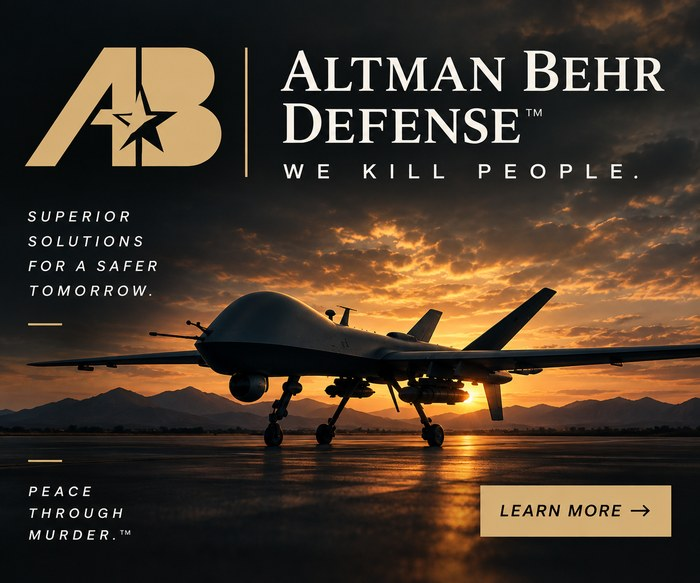
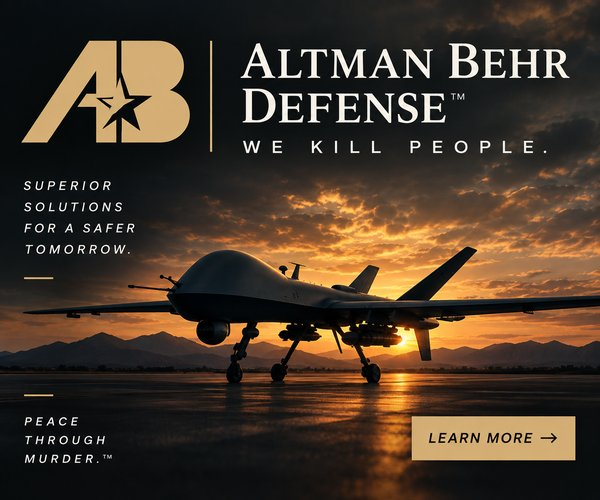
Re-encode Altman Behr Defense ad images
The 728x90 and 300x250 Altman Behr Defense creatives were showing
as broken images on the live site (their src pointed to a valid
path with correct dimensions, and they verified and rendered fine
locally, but failed to load in production). They were the only two
images heavily reprocessed (auto-cropped, downscaled, saved with
optimize=True); re-encode them with a simpler, more conservative
save to rule out an encoder quirk and force a fresh asset hash so
any stale cached response gets invalidated on redeploy.

Claude-Session: https://claude.ai/code/session_01HUgvztjT7LDLa8NvReDYPg

diff --git a/components/AdSlot.tsx b/components/AdSlot.tsx
@@ -13,12 +13,12 @@ const HQC_URL = "https://www.headquarterscomedy.com";
 
 const ADS: Partial<Record<AdSize, { src: string; width: number; height: number; alt: string }[]>> = {
   leaderboard: [
-    { src: "/ads/altman-behr-defense-728x90.jpg", width: 1600, height: 187, alt: "Altman Behr Defense — Superior solutions for a safer tomorrow." },
+    { src: "/ads/altman-behr-defense-728x90.jpg", width: 1456, height: 170, alt: "Altman Behr Defense — Superior solutions for a safer tomorrow." },
     { src: "/ads/gorman-pharmaceuticals-728x90.jpg", width: 728, height: 90, alt: "Gorman Pharmaceuticals — The world, addicted." },
     { src: "/ads/dongvape-728x90.jpg", width: 728, height: 90, alt: "DongVape — Suck on this." },
   ],
   rectangle: [
-    { src: "/ads/altman-behr-defense-300x250.jpg", width: 700, height: 583, alt: "Altman Behr Defense — Superior solutions for a safer tomorrow." },
+    { src: "/ads/altman-behr-defense-300x250.jpg", width: 600, height: 500, alt: "Altman Behr Defense — Superior solutions for a safer tomorrow." },
     { src: "/ads/dongvape-300x250.jpg", width: 300, height: 250, alt: "DongVape — Suck on this." },
   ],
 };
